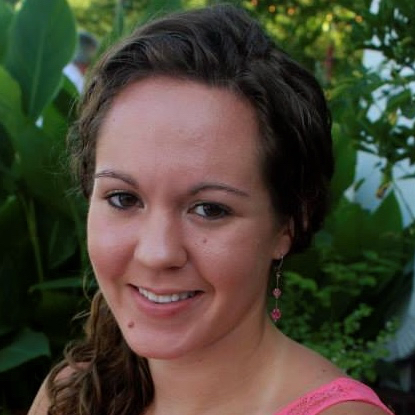
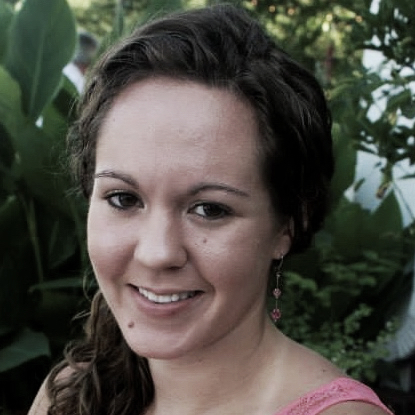
Update portfolio

diff --git a/index.html b/index.html
@@ -96,7 +96,7 @@
 								</p>
 							</div>
 							<div class="col-xs-4">
-								<img class="img-responsive img-rounded" src="img/ae-bob.jpg">
+								<img class="img-responsive img-rounded" src="img/ae.jpg">
 							</div>
 						</div>
 					</div>
@@ -110,49 +110,85 @@
 					<div class="col-xs-12 sec portfolio">
 						<h1 class="sec-heading">Portfolio</h1>
 						<div class="row">
-						<div class="col-xs-10 col-xs-offset-1">
-						<div class="responsive row">
-							<div class="col-xs-3 col-sm-3 port-thumb">
-								<a class="thumbnail" href="#">
-									<img src="img/portfolio-item.jpg">
-									<div class="caption">Item 1</div>
-								</a>
-							</div>
-							<div class="col-xs-3 col-sm-3 port-thumb">
-								<a class="thumbnail" href="#">
-									<img src="img/portfolio-item.jpg">
-									<div class="caption">Item 2</div>
-								</a>
-							</div>
-							<div class="col-xs-3 col-sm-3 port-thumb">
-								<a class="thumbnail" href="#">
-									<img src="img/portfolio-item.jpg">
-									<div class="caption">Item 3</div>
-								</a>
-							</div>
-							<div class="col-xs-3 col-sm-3 port-thumb">
-								<a class="thumbnail" href="#">
-									<img src="img/portfolio-item.jpg">
-									<div class="caption">Item 4</div>
-								</a>
-							</div>
-							<div class="col-xs-3 col-sm-3 port-thumb">
-								<a class="thumbnail" href="#">
-									<img src="img/portfolio-item.jpg">
-									<div class="caption">Item 4</div>
-								</a>
-							</div>
-							<div class="col-xs-3 col-sm-3 port-thumb">
-								<a class="thumbnail" href="#">
-									<img src="img/portfolio-item.jpg">
-									<div class="caption">Item 4</div>
-								</a>
-							</div>
-						</div>
-						</div>
-						</div>
-					</div>
-				</div>
+							<div class="col-xs-10 col-xs-offset-1">
+								<div class="responsive">
+									<div class="port-thumb">
+										<div class="thumbnail">
+											<a href="http://www.naifa-texas.org/legislativeday"><img src="img/legislative-day.png"></a>
+											<div class="caption">Legislative Day</div>
+											<div class="links"><span class="icon"><i class="fa fa-globe"></i></span> <a href="http://www.naifa-texas.org/legislativeday">Live</a> | <span class="icon"><i class="fa fa-github"></i></span> <a href="https://github.com/amyevans/legislativeday">Code</a></div>
+											<div class="desc">Single page event website using <b>HTML</b>, <b>CSS</b>, <b>Bootstrap</b> framework. Custom promo codes and form validations in <b>PHP</b> and <b>JavaScript</b>. Payments through <b>Stripe API</b>.</div>
+										</div>
+									</div>
+									<div class="port-thumb">
+										<div class="thumbnail">
+											<a href="http://amyevans.github.io/weather"><img src="img/weather.jpg"></a>
+											<div class="caption">Local Weather</div>
+											<div class="links"><span class="icon"><i class="fa fa-globe"></i></span> <a href="http://amyevans.github.io/weather">Live</a> | <span class="icon"><i class="fa fa-github"></i></span> <a href="https://github.com/amyevans/weather">Code</a></div>
+											<div class="desc">Web app which displays the user's local weather with a customized background image. Utilizes <b>2 APIs</b> and <b>jQuery</b>. FreeCodeCamp front-end project.</div>
+										</div>
+									</div>
+									<div class="port-thumb">
+										<div class="thumbnail">
+											<a href="http://amyevans.github.io/quotemachine"><img src="img/quotemachine.jpg"></a>
+											<div class="caption">Quote Machine</div>
+											<div class="links"><span class="icon"><i class="fa fa-globe"></i></span> <a href="http://amyevans.github.io/quotemachine">Live</a> | <span class="icon"><i class="fa fa-github"></i></span> <a href="https://github.com/amyevans/quotemachine">Code</a></div>
+											<div class="desc">Web app implementing <b>Forismatic API</b> to display a randomly generated motivational quote. FreeCodeCamp <b>front-end</b> project.</div>
+										</div>
+									</div>
+									<div class="port-thumb">
+										<div class="thumbnail">
+											<a href="https://github.com/amyevans/makewptheme"><img src="img/newwptheme.jpg"></a>
+											<div class="caption">New WP Theme</div>
+											<div class="links"><span class="icon"><i class="fa fa-github"></i></span> <a href="https://github.com/amyevans/makewptheme">Code</a></div>
+											<div class="desc"><b>Wordpress</b> theme from scratch in <b>PHP</b> with banner/3 blog post home page and separate templates for pages and single posts.</div>
+										</div>
+									</div>
+									<div class="port-thumb">
+										<div class="thumbnail">
+											<a href="https://github.com/christineoen/WorkoutBuddies"><img src="img/workout-buddies.jpg"></a>
+											<div class="caption">Workout Buddies</div>
+											<div class="links"><span class="icon"><span class="icon"><i class="fa fa-github"></i></span> <a href="https://github.com/christineoen/WorkoutBuddies">Code</a></div>
+											<div class="desc">3rd place team at Austin Ladies Hack. <b>Ruby</b>, <b>Sinatra</b> framework, <b>HTML</b>, <b>CSS</b>. Contributed primarily on front-end.</div>
+										</div>
+									</div>
+									<div class="port-thumb">
+										<div class="thumbnail">
+											<a href="http://etsydemo-14.herokuapp.com"><img src="img/etsy.png"></a>
+											<div class="caption">Etsy Demo</div>
+											<div class="links"><span class="icon"><i class="fa fa-globe"></i></span> <a href="http://etsydemo-14.herokuapp.com">Live</a> | <span class="icon"><i class="fa fa-github"></i></span> <a href="https://github.com/amyevans/etsydemo">Code</a></div>
+											<div class="desc">Marketplace for buyers and sellers in <b>Ruby on Rails</b>. <b>SQLite</b> database, <b>Heroku</b> deployment.</div>
+										</div>
+									</div>
+									<div class="port-thumb">
+										<div class="thumbnail">
+											<a href="https://github.com/amyevans/django_recipe"><img src="img/recipe-minder.jpg"></a>
+											<div class="caption">Recipe Minder</div>
+											<div class="links"><span class="icon"><i class="fa fa-github"></i></span> <a href="https://github.com/amyevans/django_recipe">Code</a></div>
+											<div class="desc">Web app for storing recipes using <b>Python</b>, <b>Django</b> framework.</div>
+										</div>
+									</div>
+									<div class="port-thumb">
+										<div class="thumbnail">
+											<a href="http://www.tambotoe.com"><img src="img/tambo-toe.jpg"></a>
+											<div class="caption">Tambo Toe</div>
+											<div class="links"><span class="icon"><i class="fa fa-globe"></i></span> <a href="http://www.tambotoe.com">Live</a></div>
+											<div class="desc"><b>Wordpress</b> site with <b>e-commerce</b> plugin. Template and design customizations.</div>
+										</div>
+									</div>
+									<div class="port-thumb">
+										<div class="thumbnail">
+											<a href="https://github.com/AmandaKay015/ATXVotes"><img src="img/atxvotes.png"></a>
+											<div class="caption">ATX Votes</div>
+											<div class="links"><span class="icon"><i class="fa fa-github"></i></span> <a href="https://github.com/AmandaKay015/ATXVotes">Code</a></div>
+											<div class="desc">ATX Hack for Change. <b>Javascript</b>, <b>PHP</b>. Contributed primarily to research but benefited immensely learning web app life cycle, collaboration tools, etc.</div>
+										</div>
+									</div>
+								</div><!-- /.responsive -->
+							</div><!-- /.col-xs-10 col-xs-offset-1 -->
+						</div><!-- /.row -->
+					</div><!-- /.col-xs-12 sec portfolio -->
+				</div><!-- /.row -->
 			</div>
 			<!-- End of Portfolio section -->
 

diff --git a/style.css b/style.css
@@ -8,7 +8,7 @@
 	font-family: 'Oswald', sans-serif;
 	color: white;
 	font-size: 12vw;
-	padding-top: 5vh;
+	padding-top: 2vh;
 	padding-bottom: 2vh;
 }
 
@@ -88,10 +88,50 @@
 .port-thumb {
 	font-size: 3vh;
 	font-family: 'PT Sans';
+	padding: 5px;
 }
 
-.port-thumb a:hover {
+.links {
+	text-align: center;
+}
+
+.desc {
+	height: 95px;
+}
+
+.port-thumb .caption {
+	font-family: 'Helvetica Neue', Helvetica, Arial, sans-serif;
+	text-align: center;
+	font-weight: bold;
+}
+
+.port-thumb a {
 	text-decoration: none;
+}
+
+.slick-track div {
+	outline:none;
+}
+
+.thumbnail {
+	outline: none!important;
+	background: rgb(245, 245, 245);
+}
+
+.port-thumb .thumbnail:hover {
+	border-color: #222;
+}
+
+.thumbnail .caption {
+	padding: 9px 9px 0 9px;
+}
+
+.desc, .links {
+	font-family: 'Helvetica Neue', Helvetica, Arial, sans-serif;
+	font-size: 14px;
+	line-height: 19px;
+	padding: 0 9px 0 9px;
+	color: rgb(51,51,51);
 }
 
 /*** CONTACT ***/

diff --git a/script.js b/script.js
@@ -8,27 +8,18 @@ $(document).ready(function() {
 		dots: true,
 		infinite: false,
 		speed: 300,
-		slidesToShow: 4,
-		slidesToScroll: 4,
+		slidesToShow: 3,
+		slidesToScroll: 3,
 		responsive: [
 			{
-				breakpoint: 1024,
-				settings: {
-					slidesToShow: 3,
-					slidesToScroll: 3,
-					infinite: true,
-					dots: true
-				}
-			},
-			{
-				breakpoint: 600,
+				breakpoint: 800,
 				settings: {
 					slidesToShow: 2,
 					slidesToScroll: 2
 				}
 			},
 			{
-				breakpoint: 480,
+				breakpoint: 600,
 				settings: {
 					slidesToShow: 1,
 					slidesToScroll: 1

diff --git a/slick-theme.css b/slick-theme.css
@@ -4,7 +4,7 @@
 /* Slider */
 .slick-loading .slick-list
 {
-	background: #fff url('./ajax-loader.gif') center center no-repeat;
+	background: #fff url('img/ajax-loader.gif') center center no-repeat;
 }
 
 /* Icons */
